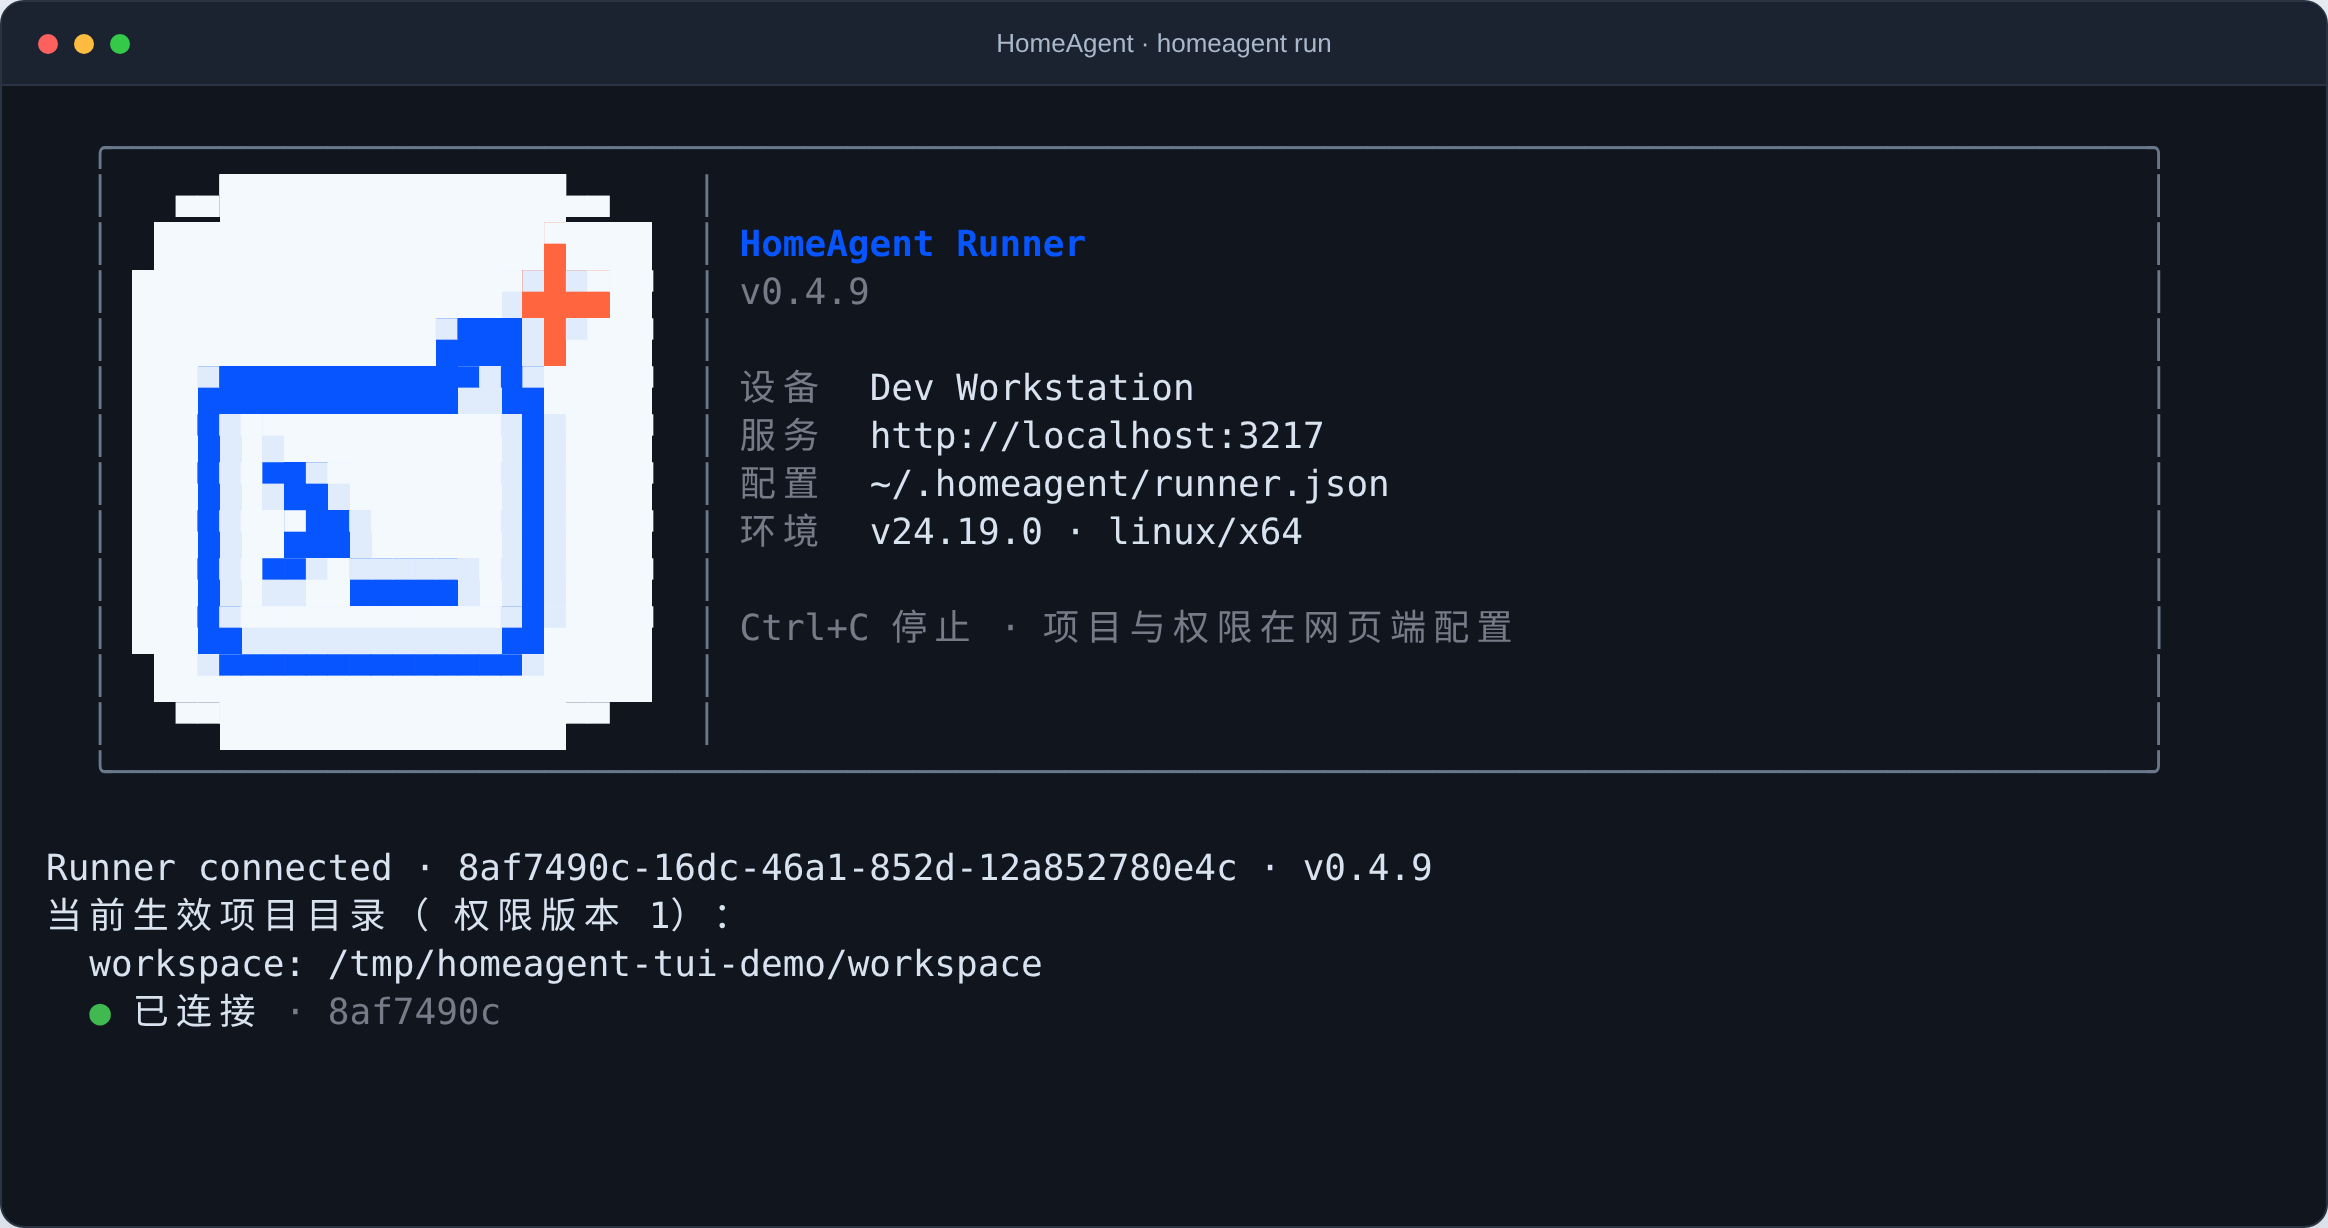
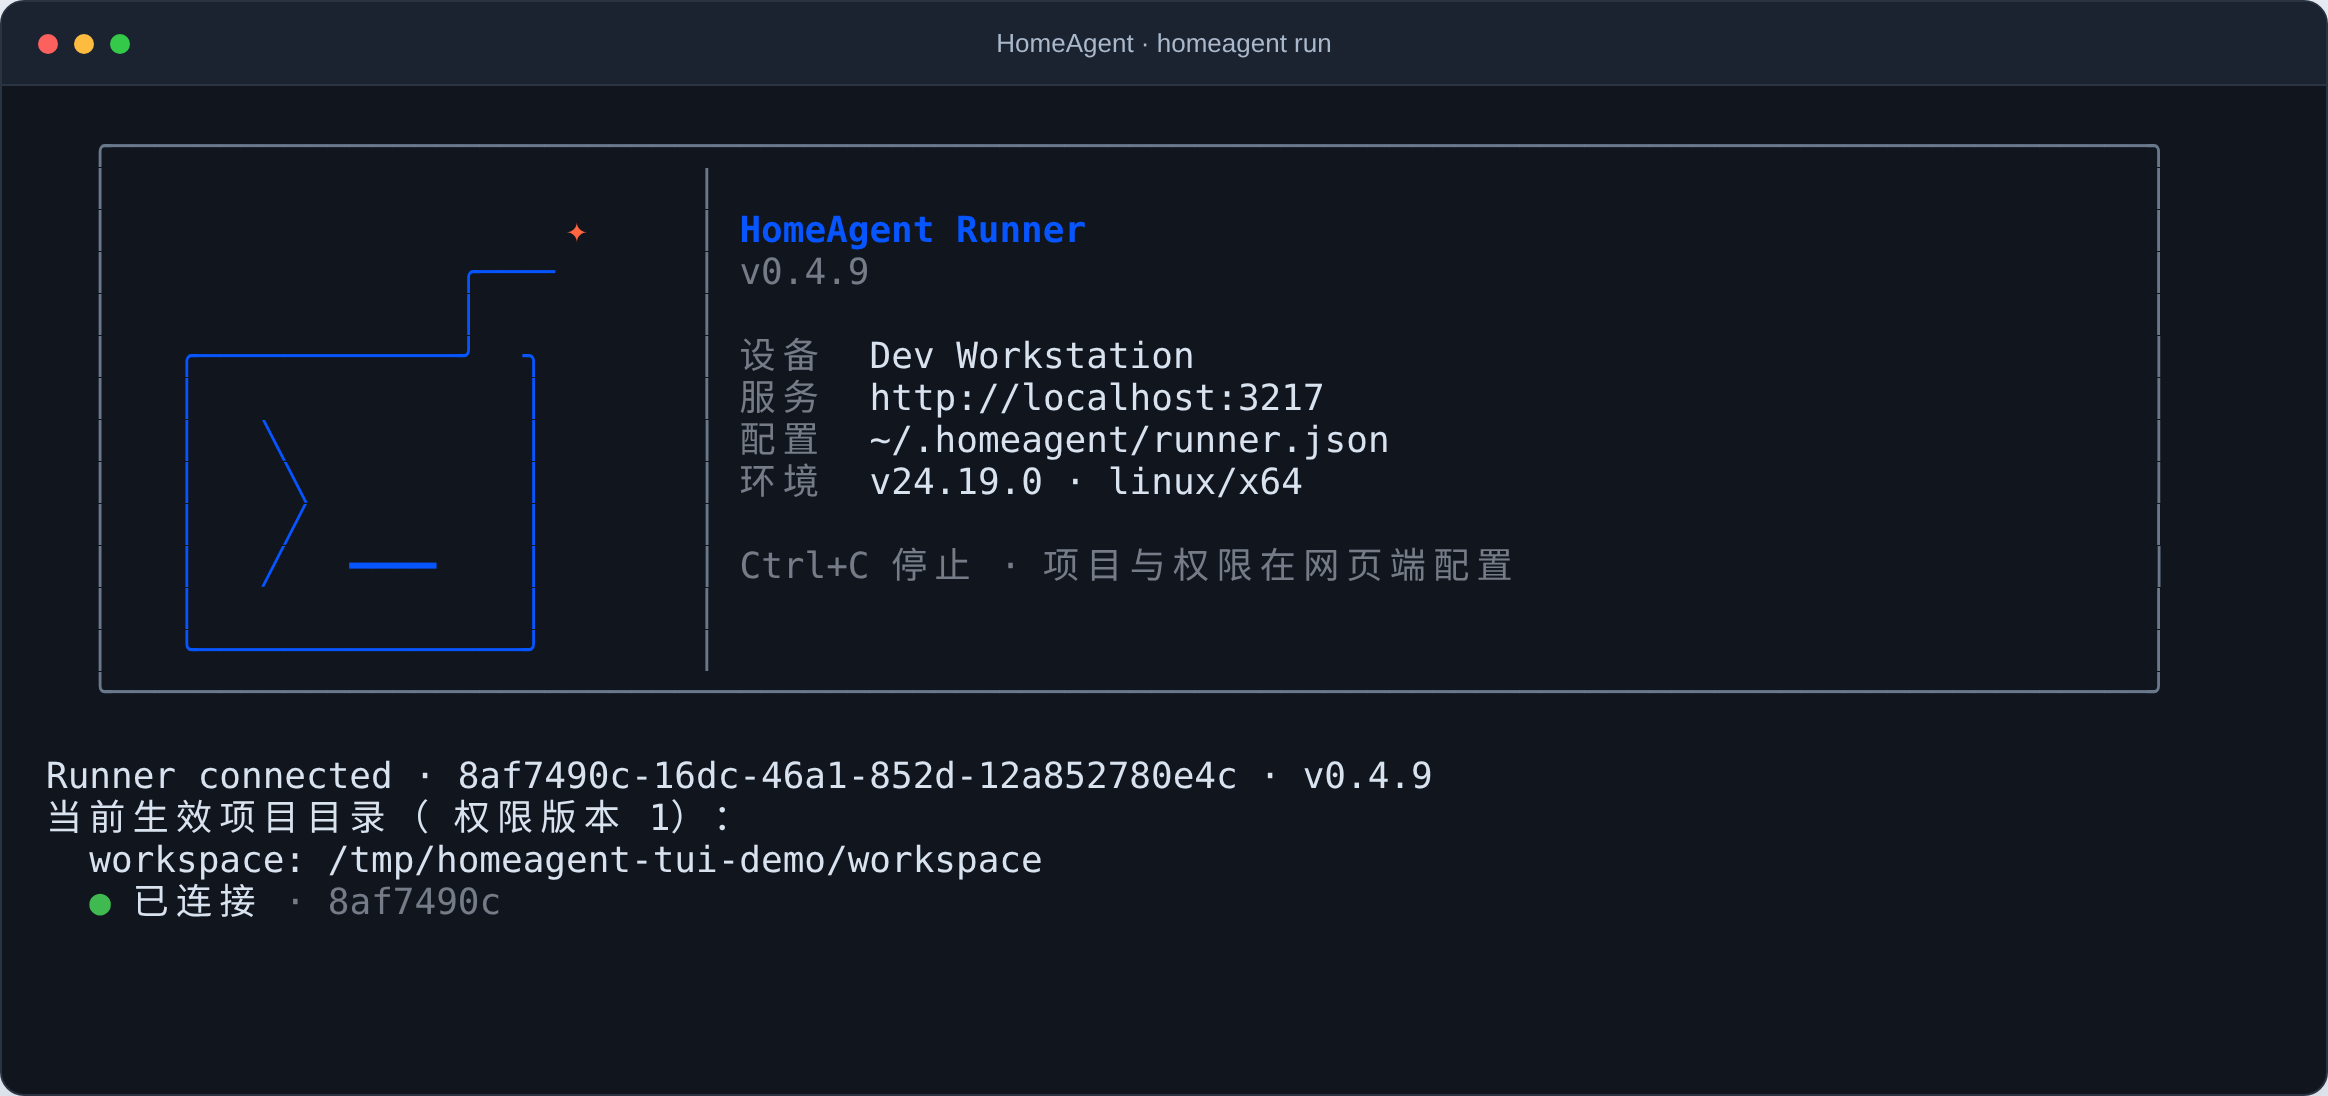
ui: redraw Runner terminal mark with native line glyphs

diff --git a/src/runner/tui.ts b/src/runner/tui.ts
@@ -34,39 +34,22 @@ export interface TuiOptions extends RenderOptions {
 const ESC = '\x1b[';
 const RESET = `${ESC}0m`;
 
+// Draw for terminal cells directly: the terminal frame, prompt and detached
+// orange sparkle stay crisp without a raster background or half-block pixels.
 const LOGO = [
-  '    ................    ',
-  '  ....................  ',
-  ' ...................... ',
-  ' ..................o... ',
-  '..................+o+...',
-  '.................+oooo..',
-  '..............+###+o+...',
-  '..............####+o....',
-  '...+############+#+.....',
-  '...############++##.....',
-  '...#+............+#+....',
-  '...#+.+..........+#+....',
-  '...#+.##+........+#+....',
-  '...#+.+##+.......+#+....',
-  '...#+...##+......+#+....',
-  '...#+..###+......+#+....',
-  '...#+.##+.++++++.+#+....',
-  '...#+.++..#####+.+#+....',
-  '...#+............+#+....',
-  '...##++++++++++++##.....',
-  ' ..+##############+.... ',
-  ' ...................... ',
-  '  ....................  ',
-  '    ................    ',
+  '                        ',
+  '                    ✦   ',
+  '               ╭───╴    ',
+  '               │        ',
+  '  ╭────────────╯  ╮     ',
+  '  │               │     ',
+  '  │   ╲           │     ',
+  '  │    ╲          │     ',
+  '  │    ╱          │     ',
+  '  │   ╱   ━━━━    │     ',
+  '  │               │     ',
+  '  ╰───────────────╯     ',
 ];
-
-const PALETTE: Record<string, string> = {
-  '.': '243;249;253',
-  '#': '7;85;255',
-  'o': '255;101;62',
-  '+': '224;235;252',
-};
 
 const BRAND = {
   blue: '38;2;7;85;255',
@@ -126,27 +109,11 @@ function paint(text: string, code: string, color: boolean): string {
   return color ? `${ESC}${code}m${text}${RESET}` : text;
 }
 
-/** Render the app mark as half blocks: 24 columns wide, 12 rows tall. */
+/** A hand-drawn terminal mark: 24 columns wide, 12 rows tall. */
 export function renderLogo(color: boolean): string[] {
-  const lines: string[] = [];
-  for (let row = 0; row < LOGO.length; row += 2) {
-    const upper = LOGO[row]!;
-    const lower = LOGO[row + 1];
-    let line = '';
-    for (let x = 0; x < upper.length; x++) {
-      const top = upper[x] ?? ' ';
-      const bottom = lower?.[x] ?? ' ';
-      const topFilled = color ? top !== ' ' : top !== ' ' && top !== '.';
-      const bottomFilled = color ? bottom !== ' ' : bottom !== ' ' && bottom !== '.';
-      if (!topFilled && !bottomFilled) { line += ' '; continue; }
-      if (!color) { line += topFilled && bottomFilled ? '█' : topFilled ? '▀' : '▄'; continue; }
-      if (topFilled && bottomFilled) line += `${ESC}38;2;${PALETTE[top]}m${ESC}48;2;${PALETTE[bottom]}m▀`;
-      else if (topFilled) line += `${ESC}38;2;${PALETTE[top]}m${ESC}49m▀`;
-      else line += `${ESC}38;2;${PALETTE[bottom]}m${ESC}49m▄`;
-    }
-    lines.push(color ? line + RESET : line);
-  }
-  return lines;
+  return LOGO.map(line => [...line].map(char =>
+    char === ' ' ? char : paint(char, char === '✦' ? BRAND.orange : BRAND.blue, color),
+  ).join(''));
 }
 
 /** Startup card shown by `homeagent run` in an interactive terminal. */
@@ -220,7 +187,7 @@ export function colorEnabled(env: NodeJS.ProcessEnv = process.env): boolean {
   return true;
 }
 
-/** The icon relies on 24-bit color; degrade to the monochrome mark elsewhere. */
+/** Use the brand colors on truecolor terminals, and monochrome elsewhere. */
 export function truecolorEnabled(stream: { getColorDepth?: () => number } = process.stdout, env: NodeJS.ProcessEnv = process.env): boolean {
   if (!colorEnabled(env)) return false;
   if (env.COLORTERM && /truecolor|24bit/i.test(env.COLORTERM)) return true;

diff --git a/tests/tui.test.ts b/tests/tui.test.ts
@@ -25,14 +25,16 @@ test('runner startup card centers the brand mark and reports runtime details', (
   assert.ok(text.includes('│'));
 });
 
-test('colored card renders the icon as truecolor half blocks without changing its width', () => {
+test('colored card renders the line-drawn brand mark without changing its width', () => {
   const plain = renderRunnerCard(info, { columns: 80, color: false });
   const colored = renderRunnerCard(info, { columns: 80, color: true });
   assert.deepEqual(colored.map(displayWidth), plain.map(displayWidth));
   const text = colored.join('\n');
   assert.ok(text.includes('\x1b[38;2;7;85;255m'));
   assert.ok(text.includes('\x1b[38;2;255;101;62m'));
-  assert.ok(text.includes('▀'));
+  assert.ok(text.includes('✦'));
+  assert.ok(text.includes('╭'));
+  assert.ok(!text.includes('▀'));
 });
 
 test('narrow terminals fall back to a compact card that never wraps', () => {

diff --git a/README.en.md b/README.en.md
@@ -215,7 +215,7 @@ systemd, scheduled tasks and scripts.
 
 ![HomeAgent Runner TUI with startup card, live connection status and permission sync logs](docs/screenshots/runner-tui.png)
 
-*Runner TUI (v0.4.9): actual terminal output from an isolated demo environment, using a demo device and project directory.*
+*Runner TUI (current source build): actual terminal output from an isolated demo environment, using a demo device and project directory.*
 
 Enter Windows project paths such as `E:/Projects/my-app` in the Dashboard.
 Keep configuration and state outside every exposed project. Local settings accept only connection and runtime options; project policies

diff --git a/CHANGELOG.md b/CHANGELOG.md
@@ -1,5 +1,11 @@
 # Changelog
 
+## Unreleased
+
+- Redraw the Runner terminal mark with native line glyphs, a clear `>_` prompt
+  and an orange four-point sparkle; remove the blocky raster background and
+  refresh the README terminal screenshot.
+
 ## 0.4.9 — Version visibility and adaptive Runner TUI
 
 - Refine the Runner startup card into a compact side-by-side icon and details
